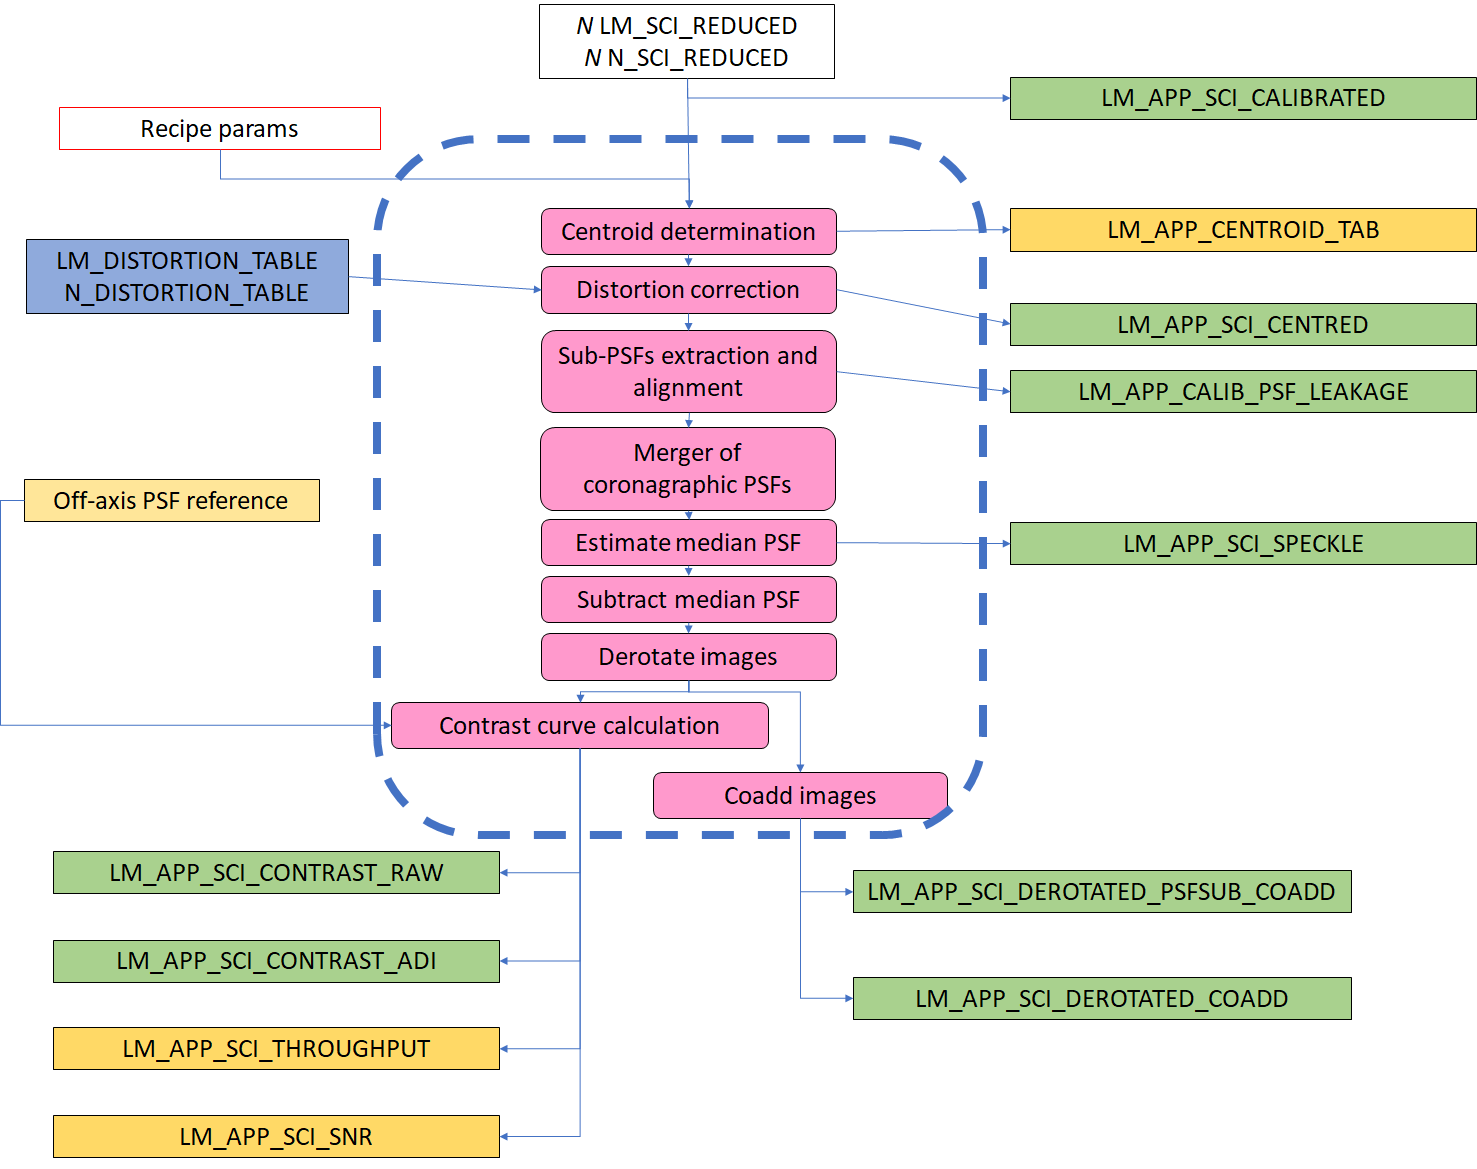
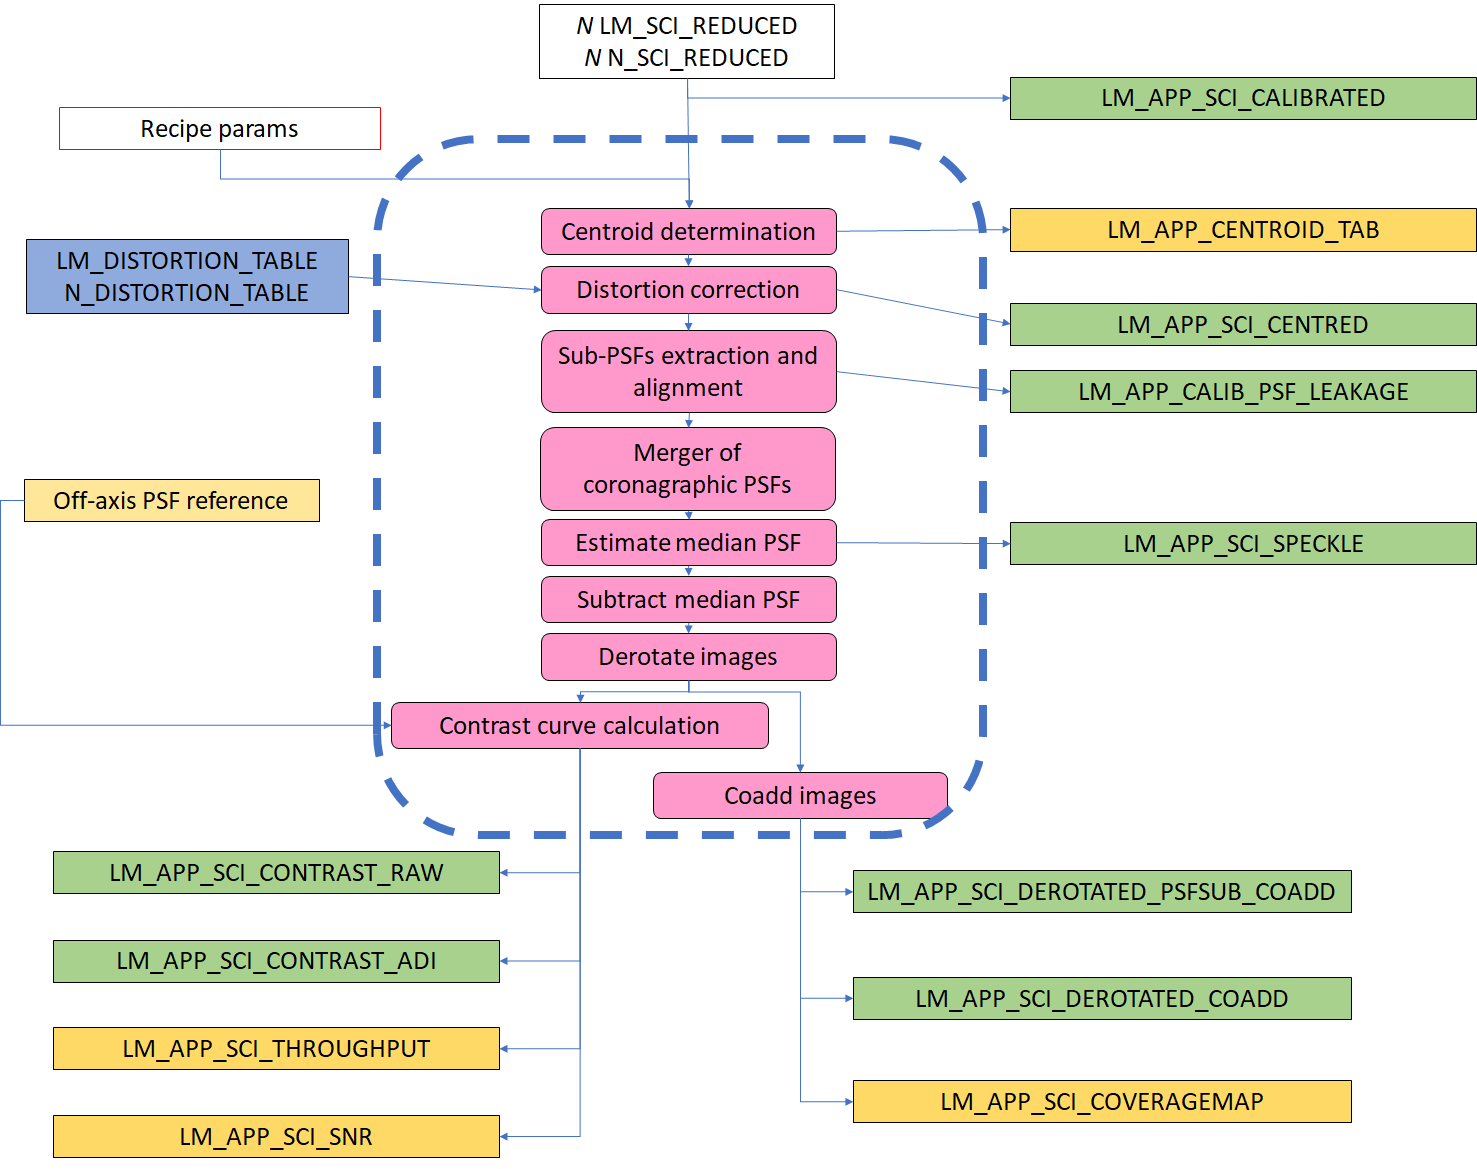
Update on Overleaf.

Changed region(s): [[0.5606, 0.9239, 0.9343, 0.9855]]

diff --git a/Recipes_ADI.tex b/Recipes_ADI.tex
@@ -11,12 +11,7 @@ relies on reduced data they will not be executed in a scheduled way at
 the telescope. For more detailed HCI reductions the observers will
 have to rely on their own more specialized code, but intermediate data
 products will be optionally provided in these recipes to facilitate
-their dedicated HCI reductions. [potentially these three recipes can
-  be combined into one with a logical decision tree] [to minimize
-  interpolation artefacts any interpolation steps are to be combined
-  as much as possible] [bad pixel maps and image stacks without
-  background subtraction should be available as output from the
-  earlier science processing recipes]
+their dedicated HCI reductions. Potentially these three recipes can be combined into one with a logical decision tree. To minimize interpolation artefacts any interpolation steps are to be combined as much as possible. Bad pixel maps and image stacks without background subtraction are available as output from the earlier science processing recipes.
 
 \subsubsection{IMG\_LM/N RAVC/CVC(/CLC) ADI Post Processing}
 \label{}
@@ -24,34 +19,16 @@ their dedicated HCI reductions. [potentially these three recipes can
 
 The following recipe is applicable for ADI post processing for the LM
 and N band, and CVC/RAVC(/CLC) coronagraphs. An input set of
-observations consists of a time sequence of ADI images in LM/N band, which
-have already undergone basic calibration.
+observations consists of a time sequence of ADI images in LM or N band, which have already undergone basic calibration.
 
-For each image, the centroid of the central source is determined,
-distortion corrections are performed, and the images are aligned on a
-subpixel scale. The median PSF is then estimated and subtracted from
-all images following the first step of the standard ADI technique of Marois et al (2006). 
-Each image is then derotated using the known position angle and
-coadded to produce the final science image. In addition, the images
-prior to PSF subtraction are derotated and combined to produce a second final
-image.
+For each image, the centroid of the central source is determined, distortion corrections are performed, and the images are aligned on a subpixel scale. The median PSF is then estimated and subtracted from all images following the first step of the standard ADI technique of Marois et al (2006). 
+Each image is then derotated using the known position angle and coadded to produce the final science image. In addition, the images prior to PSF subtraction are derotated and combined to produce a second final image.
 
-In addition to the final images, the cube of derotated, PSF subtracted
-images are used to calculate the raw and post-ADI contrast curves
-as well as the ADI throughput curve. The intrinsic radial throughput of the coronagraph 
-is taken from static calibrations while the post-processing losses are estimated from injection 
-and retrieval of artificial companions with a known brightness and separation.
+In addition to the final images, the cube of derotated, PSF subtracted images are used to calculate the raw and post-ADI contrast curves as well as the ADI throughput curve. The intrinsic radial throughput of the coronagraph  is taken from static calibrations while the post-processing losses are estimated from injection and retrieval of artificial companions with a known brightness and separation.
 
-[Off-axis unsaturated PSFs which are needed for the ADI process are
-  either collected as part of the observations, static calibrations or
-  available from the QACITS control loop.  If collected as part of the
-  OB they are processed by the regular science recipes (with
-  compensation of any neutral density transmission).]
+Off-axis unsaturated PSFs which are needed for the ADI process are either collected as part of the observations, static calibrations or available from the QACITS control loop.  If collected as part of the OB they are processed by the regular science recipes (with compensation of any neutral density transmission).
 
-[while not part of the PIP specs, the current generation of VIP\_HCI
-  ADI reduction algorithms supports the more detailed Marois et
-  al. 2006 ADI (including an annular optimization step) as well as
-  PCA-based routines.]
+While not part of the PIP specs, the current generation of VIP\_HCI ADI reduction algorithms supports the more detailed Marois et al. 2006 ADI (including an annular optimization step) as well as PCA-based routines.
 
 \begin{recipedef}
   Name:                & \REC{metis_lm_adi_ravc}                                        \\
@@ -71,7 +48,7 @@ and retrieval of artificial companions with a known brightness and separation.
                        &               \\
   Recipe parameters:   &  combination approach (median,mean,sigclip) \\
                        &   combination parameters (e.g., N-sigma)          \\
-                       &  start and end limit to contrast curve (in lambda/D) \\
+                       &  start and end limit to contrast curve (in $\lambda/D$) \\
   & frame exclusion thresholds dependent on AO parameters and centroid offset                \\
   
   Algorithm:           & Determine centroid of central source \\
@@ -90,8 +67,10 @@ and retrieval of artificial companions with a known brightness and separation.
                      & \PROD{LM_RAVC_SCI_DEROTATED_COADD} (Combined derotated image without PSF subtraction)                                  \\
                      & \PROD{LM_RAVC_SCI_CONTRAST_RAW} (Raw Contrast Curve)                                 \\
                      & \PROD{LM_RAVC_SCI_CONTRAST_ADI} (Post ADI Contrast Curve)                                 \\
-                     & \PROD{LM_RAVC_SCI_THROUGHOUT} (ADI Throughput Curve)                               \\
-                     & \PROD{LM_RAVC_SCI_SNR} (ADI SNR Map)                            \\
+                     & \PROD{LM_RAVC_SCI_THROUGHPUT} (ADI Throughput Curve)                               \\
+                     & \PROD{LM_RAVC_SCI_COVERAGEMAP} (ADI Coverage Map: number of frames  
+                     \\
+                     & \PROD{LM_RAVC_SCI_SNR} (ADI SNR Map)  \\
 
   Expected accuracies: & \TBD                                                           \\
   QC1 parameters:      & \QC{FWHM of PSF by frame}                                      \\
@@ -118,24 +97,13 @@ and retrieval of artificial companions with a known brightness and separation.
 \label{}
 
 
-The following recipe is applicable for ADI post processing for the LM
-and N band, in combination with the APP coronagraph. It is very similar to the recipe for
-RAVC/CVC(/CLC) coronagraphs, with the addition of steps to merging together the two half PSFs, and of applying an
-angular wedge mask before the derotation and stacking, and contrast curve calculations. An input set of observations consists 
-of a time sequence of ADI images in LM/N band, which have already undergone basic calibration.
+The following recipe is applicable for ADI post processing for the LM and N band, in combination with the APP coronagraph. It is very similar to the recipe for RAVC/CVC(/CLC) coronagraphs, with the addition of steps to merging together the two half PSFs, and of applying an angular wedge mask before the derotation and stacking, and contrast curve calculations. An input set of observations consists of a time sequence of ADI images in LM/N band, which have already undergone basic calibration.
 
-For each image, the centroid of the central source is determined for all three PSFs and
-distortion corrections are performed. The PSFs are aligned at a sub-pixel scale and extracted;
-the extracted coronagraphic PSFs are merged to produce a complete PSF and the third PSF is used to form a cube of calibrated leakage PSFs.
+For each image, the centroid of the central source is determined for all three PSFs and distortion corrections are performed. The PSFs are aligned at a sub-pixel scale and extracted; the extracted coronagraphic PSFs are merged to produce a complete PSF and the third PSF is used to form a cube of calibrated leakage PSFs.
 The mean/median/sigmaclipped PSF is estimated and subtracted from each frame of the merged coronagraphic PSF. Each image is
-then derotated to place the off-axis source at the same on-sky angle
-and coadded to produce the final science image. In addition, the
-images prior to PSF subtraction are derotated and combined to produce
-a final image.
+then derotated to place the off-axis source at the same on-sky angle and coadded to produce the final stacked science image. In addition, the images prior to PSF subtraction are derotated and combined to produce a second final stacked image.
 
-In addition to the final images, the stack derotated, PSF subtracted
-images are used to calculate the raw and post-ADI contrast curves
-as well as the ADI throughput curve.
+In addition to the final images, the stack of derotated, PSF subtracted images are used to calculate the raw and post-ADI contrast curves as well as the ADI throughput curve and coverage map containing the effective number of included frames.
 
 
 
@@ -156,7 +124,7 @@ as well as the ADI throughput curve.
                        &               \\
   Recipe parameters:   &  combination approach (median,mean,sigclip) \\
                        &   combination parameters (e.g., N-sigma)          \\
-                       &  start and end limit to contrast curve (in lambda/D) \\
+                       &  start and end limit to contrast curve (in $\lambda/D$) \\
   & frame exclusion thresholds dependent on AO parameters and centroid offset \\
                                                        
   Algorithm:           & Determine centroid of central source \\
@@ -170,15 +138,18 @@ as well as the ADI throughput curve.
                        & Calculate contrast curves   \\
   & Calculate contrast curve   \\
   Output data:       & \PROD{LM_APP_SCI_CALIBRATED} (Calibrated Image)                                    \\
-                     & \PROD{LM_APP_SCI_CENTRED} (Cube of individuallly calibrated and recentered images)                                 \\
-                     & \PROD{LM_APP_CENTROID_TAB} (Table of star centre estimages)                                 \\
+                     & \PROD{LM_APP_SCI_CENTRED} (Cube of individually calibrated and recentered images)                                 \\
+                     & \PROD{LM_APP_CENTROID_TAB} (Table of star centre estimates)                                 \\
               
                      & \PROD{LM_APP_SCI_SPECKLE} (PSF/speckle image)                                 \\
                      & \PROD{LM_APP_SCI_DEROTATED_PSFSUB} (Combined derotated image with PSF subtraction)                                 \\
                      & \PROD{LM_APP_SCI_DEROTATED_COADD} (Combined derotated image without PSF subtraction)                                  \\
                      & \PROD{LM_APP_SCI_CONTRAST_RAW} (Raw Contrast Curve)                                 \\
                      & \PROD{LM_APP_SCI_CONTRAST_ADI} (Post ADI Contrast Curve)                                 \\
-                     & \PROD{LM_APP_SCI_THROUGHOUT} (ADI Throughput Curve)                               \\
+                     & \PROD{LM_APP_SCI_THROUGHPUT} (ADI Throughput Curve)                               \\
+                     
+                     & \PROD{LM_APP_SCI_COVERAGEMAP} (ADI Coverage Map: number of frames
+                     \\
                      & \PROD{LM_APP_SCI_SNR} (ADI SNR Map)                            \\
 
   Expected accuracies: & \TBD                                                           \\
@@ -205,34 +176,27 @@ as well as the ADI throughput curve.
 \label{}
 
 
-The following recipe is applicable for ADI post processing for the LMS
-data cubes and the RAVC/CVC and APP coronagraphs. As only a single target can be targeted in the limited field of view the methods overlap between coronagraphs.
+The following recipe is applicable for ADI post processing for the LMS data cubes and the RAVC/CVC and APP coronagraphs. As only a single target can be targeted in the limited field of view the methods overlap between coronagraphs.
 For the LMS observations, the input is a set of reduced 3D (spectral and spatial) data cubes on a rectified grid. 
 
-For each wavelength slice in each cube the centroid is determined by a QACITS-like algorithm 
-in the case of the focal plane coronagraphs (RAVC/CVC) or through 2D cross-correlation with 
-a template PSF for the APP coronagraph. This centroid information is stored in a table together 
-with timestamps, parallactic angle and bad frame flags (based on AO loop status, AO performance, 
-atmospheric parameters and centroid offset).
-As the ADI step requires square pixels following previous work on combining ADI techniques with IFUs (such as SPHERE/IFS, SINFONI), 
-the rectangular spatial grid is interpolated or nearest neighbor filled to produce a square pixel image 
-[it is acknowledged that one spatial dimension is undersampled which may lead to reduction artefacts].
+For each wavelength slice in each cube the centroid is determined by a QACITS-like algorithm in the case of the focal plane coronagraphs (RAVC/CVC) or through 2D cross-correlation with a template PSF for the APP coronagraph. This centroid information is stored in a table together with timestamps, parallactic angle and bad frame flags (based on AO loop status, AO performance, atmospheric parameters and centroid offset).
+As the ADI step requires square pixels following previous work on combining ADI techniques with IFUs (such as SPHERE/IFS, SINFONI), the rectangular spatial grid is interpolated or nearest neighbor filled to produce a square pixel image. 
+It is acknowledged that one spatial dimension is undersampled which may lead to reduced performance.
 The mean/median/sigmaclipped PSF (in time) is estimated for each wavelength and subtracted from each image in the cube. 
-After derotation the cubes are combined in time to give a coadded cube. For the APP a wedge shape is used. The derotated cubes are also 
-used to generate post ADI contrast curves and contrast curves with input from the radial coronagraph throughput profile and off-axis PSFs.
+After derotation the cubes are combined in time to give a coadded cube. For the APP a wedge shape is used. The limited field of view of the LMS means that only PSF can be centered on the IFU. The derotated cubes are also used to generate post ADI contrast curves and contrast curves with input from the radial coronagraph throughput profile and off-axis PSFs. In addition coverage maps are produced.
 
-[while not part of the PIP specs, the current generation of VIP\_HCI ADI reduction algorithms supports
-the more detailed Marois et al. 2006 ADI routine, PCA-based routines, as well as ADI+mSDI processing to improve the speckle PSF estimation.]
+While not part of the PIP specs, the current generation of VIP\_HCI ADI reduction algorithms supports
+the more detailed Marois et al. 2006 ADI routine, PCA-based routines, as well as ADI+mSDI processing to improve the speckle PSF estimation with the additional wavelength information.
 
 
 
 \begin{recipedef}
   Name:                & \REC{metis_lms_adi_ravc}                                        \\
-  Purpose:             & Classical ADI post processing for CVC/RAVC(/CLC) coronagraphs      \\
+  Purpose:             & Classical ADI post processing for APP/CVC/RAVC(/CLC) coronagraphs      \\
   Requirements:        & \REQ{METIS-5989}                                               \\
   Type:                & Science                                                    \\
-  Templates:           & \TPL{LM_SCI_Reduced}                            \\
-  Input data:          & Time series of LM\_SCI\_REDUCED images                      \\
+  Templates:           & \TPL{LMS_SCI_Reduced}                            \\
+  Input data:          & Time series of LMS\_SCI\_REDUCED images                      \\
                        & LM distortion table                               \\
                        & Coronagraphic throughput map and profile                                                  \\
                        & Off-axis PSF references                                                  \\
@@ -244,28 +208,28 @@ the more detailed Marois et al. 2006 ADI routine, PCA-based routines, as well as
                        &               \\
   Recipe parameters:   &  combination approach (median,mean,sigclip) \\
                        &   combination parameters (e.g., N-sigma)          \\
-                       &  start and end limit to contrast curve (in lambda/D) \\
+                       &  start and end limit to contrast curve (in $\lambda/D$) \\
   & frame exclusion thresholds dependent on AO parameters and centroid offset \\
                                                        
   Algorithm:           & Determine centroid of central source \\
                        & Distortion correction, square pixel reconstruction and sub-pixel alignment   \\
                        & Estimate median PSF   \\
                        & Subtract median PSF   \\
-                       & De-rotate images   \\
+                       & Derotate images   \\
                        & Coadd images   \\
                        & Calculate contrast curves   \\
-  & Calculate contrast curve   \\
-  Output data:       & \PROD{LM_RAVC_SCI_CALIBRATED} (Calibrated Cube)                                    \\
-                     & \PROD{LM_RAVC_SCI_CENTRED} (Cube of individually calibrated and recentered cubes)                                 \\
-                     & \PROD{LM_RAVC_CENTROID_TAB} (Table of star centre estimages)                                 \\
+ 
+  Output data:       & \PROD{LMS_RAVC_SCI_CALIBRATED} (Calibrated Cube)                                    \\
+                     & \PROD{LMS_RAVC_SCI_CENTRED} (Cube of individually calibrated and recentered cubes)                                 \\
+                     & \PROD{LMS_RAVC_CENTROID_TAB} (Table of star centre estimages)                                 \\
               
-                     & \PROD{LM_RAVC_SCI_SPECKLE} (PSF/speckle cube)                                 \\
-                     & \PROD{LM_RAVC_SCI_DEROTATED_PSFSUB} (Combined derotated cube with PSF subtraction)                                 \\
-                     & \PROD{LM_RAVC_SCI_DEROTATED_COADD} (Combined derotated cube without PSF subtraction)                                  \\
-                     & \PROD{LM_RAVC_SCI_CONTRAST_RAW} (Raw Contrast Curves)                                 \\
-                     & \PROD{LM_RAVC_SCI_CONTRAST_ADI} (Post ADI Contrast Curves)                                 \\
-                     & \PROD{LM_RAVC_SCI_THROUGHOUT} (ADI Throughput Curves)                               \\
-                     & \PROD{LM_RAVC_SCI_SNR} (ADI SNR Map)                            \\
+                     & \PROD{LMS_RAVC_SCI_SPECKLE} (PSF/speckle cube)                                 \\
+                     & \PROD{LMS_RAVC_SCI_DEROTATED_PSFSUB} (Combined derotated cube with PSF subtraction)                                 \\
+                     & \PROD{LMS_RAVC_SCI_DEROTATED_COADD} (Combined derotated cube without PSF subtraction)                                  \\
+                     & \PROD{LMS_RAVC_SCI_CONTRAST_RAW} (Raw Contrast Curves)                                 \\
+                     & \PROD{LMS_RAVC_SCI_CONTRAST_ADI} (Post ADI Contrast Curves)                                 \\
+                     & \PROD{LMS_RAVC_SCI_THROUGHPUT} (ADI Throughput Curves)                               \\
+                     & \PROD{LMS_RAVC_SCI_SNR} (ADI SNR Map)                            \\
 
   Expected accuracies: & \TBD                                                           \\
   QC1 parameters:      & \QC{FWHM of PSF by frame}                                      \\

diff --git a/11_0-critical_algorithms.tex b/11_0-critical_algorithms.tex
@@ -13,13 +13,72 @@ This section discusses the progress made on the critical algorithms identified i
     \item Error propagation
     \item N-band image restoration
     \item LMS image and cube reconstruction
-    \item LMS data rate   
+    \item LMS data rate
 \end{enumerate}
 
-The following additional critical algorithms were identified in the period between PDR and FDR. :
+The following additional critical algorithms were identified in the period between PDR and FDR:
 
 \begin{enumerate}
     \item ADI algorithm
 \end{enumerate}
 
+% Export these to individual files if they become too wordy
+\subsection{Persistence correction}
+
+Will have access to a HDRL function from ESO. 
+The interface is TBD.
+Subtraction of persistence image as determined by ESO.
+Need to reference ESO docs for this.
+How does the scaling happen?
+Is there an API endpoint for this?
+
+\subsection{Detector Masks}
+
+Look into the MATISSE docs as to how this was done
+Delivers a bias/dark/ron value?
+
+\subsection{Bad pixel determination}
+
+Surely every other instrument on planet earth has some sort of algo for this.
+Need to determine the format of the bad pixel mask (bool?)
+Take XSHOOTER as example
+
+\subsection{Background subtraction}
+
+N-band: Standard chop and nod using telescope chopper and internal nodder
+See VISIR pipeline
+
+\subsection{Wavelength calibration and distortion correction}
+
+Pyreduce, will be described by Nadeen
+IMG modes are not critical, see recipes
+
+\subsection{Telluric correction}
+
+molecfit standard proceedure as already used in KMOS, will be built into XSHOOTER
+
+\subsection{Error propagation}
+
+HDRL functions do error propogation. Look into docs for these. 
+Understand how HDRL does this and then copy it.
+
+\subsection{N-band image restoration}
+
+Chop-nod inversion and stacking
+Look at how VISIR does this
+Need to look at sub-pixel chop shifts, and whether the images need to be resampled
+Plate scale distortions are not really a issue, because we only care about compact objects
+
+\subsection{LMS image and cube reconstruction}
+
+Completely open and a bit of a beast. 
+Help from Linz?
+Drizzling from HST?
+
+\subsection{LMS data rate}
+
+See data rate document. 
+Hand-wave-y arguments to make this go away.
+
+% Additional critical algos
 \input{CritAlgo_ADI}

diff --git a/Recipes_Technical.tex b/Recipes_Technical.tex
@@ -29,6 +29,22 @@ subsystems.
   QC1 parameters:      & \TBD                                          \\
 \end{recipedef}
 
+
+\subsubsection{Chopper Home Position}
+
+
+\subsubsection{Plate-scale calibration}
+
+
+\subsubsection{Fringing calibration}
+
+
+\subsubsection{Calibration of slit losses}
+
+
+
+
+
 %%% Local Variables:
 %%% mode: latex
 %%% TeX-master: "METIS_DRLD"
